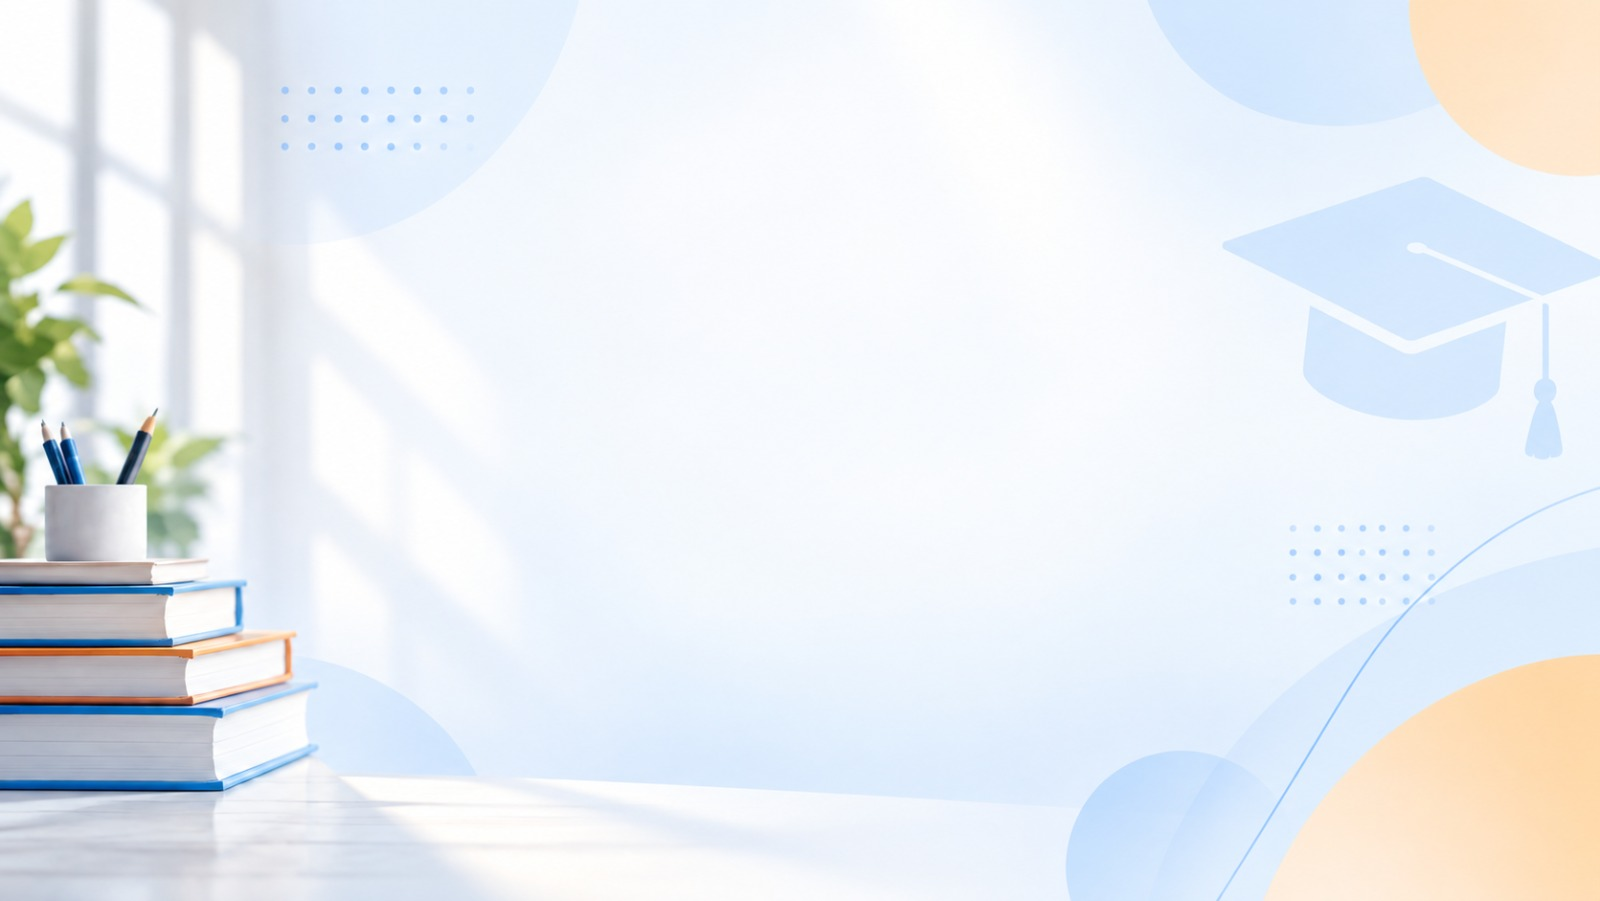
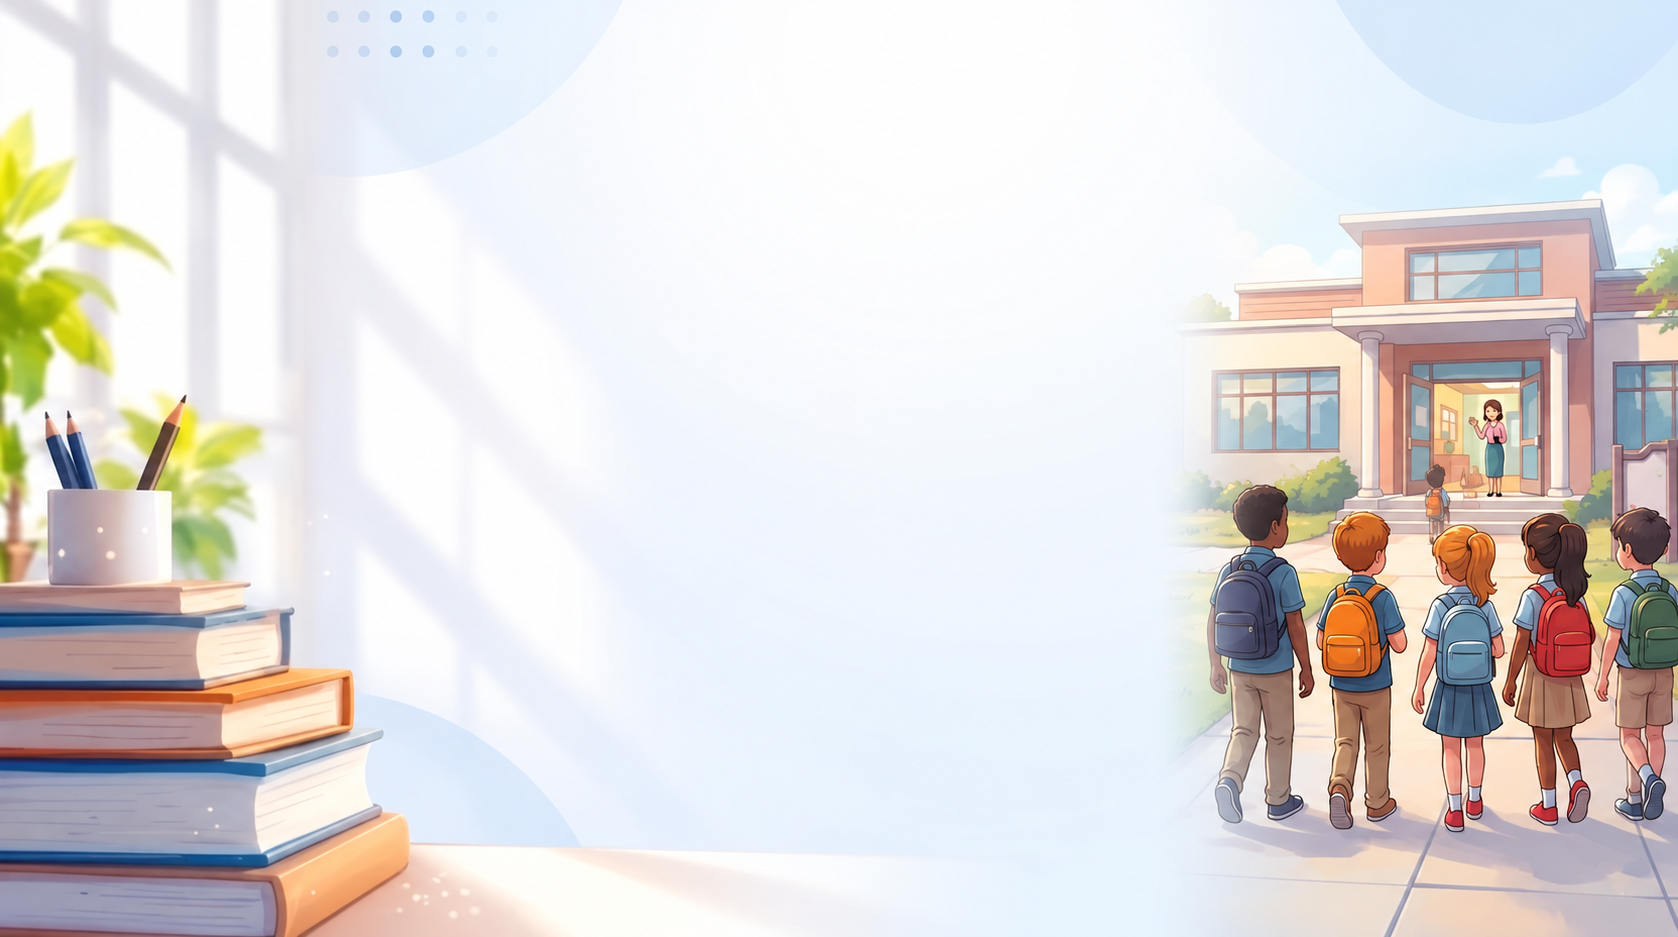
Background image  updated -1

diff --git a/src/Screens/WelcomePage.jsx b/src/Screens/WelcomePage.jsx
@@ -1,5 +1,6 @@
 import React from 'react';
 import { useNavigate } from 'react-router-dom';
+import { Mail, Building2, MapPin } from 'lucide-react';
 
 // Assets
 import smartedzlogo from "../assets/smartedzlogo.png";
@@ -15,7 +16,7 @@ export default function WelcomePage() {
   const navigate = useNavigate();
 
   return (
-    <div className="welcome-bg relative flex min-h-screen flex-col items-center justify-center overflow-x-hidden bg-zinc-50 bg-cover bg-center bg-no-repeat px-6 py-10 sm:px-12">
+    <div className="welcome-bg relative flex min-h-screen flex-col overflow-x-hidden bg-zinc-50 bg-cover bg-center bg-no-repeat">
       {/* Animations + responsive background */}
       <style>{`
         @keyframes fadeInUp {
@@ -26,6 +27,7 @@ export default function WelcomePage() {
         .animate-fade-in-up-delay-1 { animation: fadeInUp 0.6s ease-out 0.15s forwards; }
         .animate-fade-in-up-delay-2 { animation: fadeInUp 0.6s ease-out 0.3s forwards; }
         .animate-fade-in-up-delay-3 { animation: fadeInUp 0.6s ease-out 0.45s forwards; }
+        .animate-fade-in-up-delay-4 { animation: fadeInUp 0.6s ease-out 0.6s forwards; }
 
         /* Default (web / wide) background */
         .welcome-bg { background-image: url('/Background_Web.png'); }
@@ -40,57 +42,80 @@ export default function WelcomePage() {
           while still letting the background show through. */}
       <div className="pointer-events-none absolute inset-0 bg-gradient-to-b from-white/50 via-white/25 to-white/50" />
 
-      {/* Centered hero content */}
-      <div className="relative z-10 mx-auto flex w-full max-w-xl flex-col items-center text-center">
+      {/* Centered hero content (fills the space above the footer) */}
+      <div className="relative z-10 flex flex-1 items-center justify-center px-6 py-10 sm:px-12">
+        <div className="mx-auto flex w-full max-w-xl flex-col items-center text-center">
 
-        {/* Logo Section - UNTOUCHED */}
-        <div className="mb-6 flex items-center gap-3 animate-fade-in-up opacity-0">
-          <img
-            src={smartedzlogo || "/placeholder.svg"}
-            alt="SmartEdz Logo"
-            className="h-16 w-auto xs:h-20 sm:h-24 object-contain drop-shadow-sm"
-          />
-          <div className="text-4xl sm:text-5xl font-bold tracking-tight">
-            <span className="text-[#3284c7]">Smart</span>
-            <span className="text-[#f29132]">Edz</span>
+          {/* Logo Section - UNTOUCHED */}
+          <div className="mb-6 flex items-center gap-3 animate-fade-in-up opacity-0">
+            <img
+              src={smartedzlogo || "/placeholder.svg"}
+              alt="SmartEdz Logo"
+              className="h-16 w-auto xs:h-20 sm:h-24 object-contain drop-shadow-sm"
+            />
+            <div className="text-4xl sm:text-5xl font-bold tracking-tight">
+              <span className="text-[#3284c7]">Smart</span>
+              <span className="text-[#f29132]">Edz</span>
+            </div>
           </div>
-        </div>
 
-        {/* Text Content */}
-        <div className="space-y-4 sm:space-y-6">
-          <h1 className="text-3xl sm:text-4xl font-semibold tracking-tight text-zinc-900 animate-fade-in-up-delay-1 opacity-0 leading-tight">
-            Complete Educational ERP Solution for Schools, Colleges &amp; Educational Institutions
-          </h1>
+          {/* Text Content */}
+          <div className="space-y-4 sm:space-y-6">
+            <h1 className="text-3xl sm:text-4xl font-semibold tracking-tight text-zinc-900 animate-fade-in-up-delay-1 opacity-0 leading-tight">
+              Complete Educational ERP Solution for Schools, Colleges &amp; Educational Institutions
+            </h1>
 
-          <p className="mx-auto max-w-md text-base sm:text-lg font-medium text-zinc-600 animate-fade-in-up-delay-2 opacity-0 leading-relaxed">
-            A unified Educational ERP platform to manage students, academics, administration, fees, transport, communication, and your entire institution seamlessly.
-          </p>
+            <p className="mx-auto max-w-md text-base sm:text-lg font-medium text-zinc-600 animate-fade-in-up-delay-2 opacity-0 leading-relaxed">
+              A unified Educational ERP platform to manage students, academics, administration, fees, transport, communication, and your entire institution seamlessly.
+            </p>
 
-          {/* CTA Button */}
-          <div className="pt-4 sm:pt-6 flex justify-center animate-fade-in-up-delay-3 opacity-0">
-            <button
-              type="button"
-              onClick={() => navigate('/login')}
-              aria-label="Proceed to the application"
-              className="group relative inline-flex items-center justify-center rounded-md bg-primary px-8 py-3.5 text-base font-semibold text-white shadow-md transition-all duration-200 hover:bg-primary/90 hover:shadow-lg hover:-translate-y-0.5 focus:outline-none focus:ring-2 focus:ring-primary/50 focus:ring-offset-2"
-            >
-              <span>Get Started</span>
-              <svg
-                xmlns="http://www.w3.org/2000/svg"
-                viewBox="0 0 20 20"
-                fill="currentColor"
-                className="ml-2 size-5 transition-transform duration-200 group-hover:translate-x-1"
+            {/* CTA Button */}
+            <div className="pt-4 sm:pt-6 flex justify-center animate-fade-in-up-delay-3 opacity-0">
+              <button
+                type="button"
+                onClick={() => navigate('/login')}
+                aria-label="Proceed to the application"
+                className="group relative inline-flex items-center justify-center rounded-md bg-primary px-8 py-3.5 text-base font-semibold text-white shadow-md transition-all duration-200 hover:bg-primary/90 hover:shadow-lg hover:-translate-y-0.5 focus:outline-none focus:ring-2 focus:ring-primary/50 focus:ring-offset-2"
               >
-                <path
-                  fillRule="evenodd"
-                  d="M3 10a.75.75 0 01.75-.75h10.638L10.23 5.29a.75.75 0 111.04-1.08l5.5 5.25a.75.75 0 010 1.08l-5.5 5.25a.75.75 0 11-1.04-1.08l4.158-3.96H3.75A.75.75 0 013 10z"
-                  clipRule="evenodd"
-                />
-              </svg>
-            </button>
+                <span>Get Started</span>
+                <svg
+                  xmlns="http://www.w3.org/2000/svg"
+                  viewBox="0 0 20 20"
+                  fill="currentColor"
+                  className="ml-2 size-5 transition-transform duration-200 group-hover:translate-x-1"
+                >
+                  <path
+                    fillRule="evenodd"
+                    d="M3 10a.75.75 0 01.75-.75h10.638L10.23 5.29a.75.75 0 111.04-1.08l5.5 5.25a.75.75 0 010 1.08l-5.5 5.25a.75.75 0 11-1.04-1.08l4.158-3.96H3.75A.75.75 0 013 10z"
+                    clipRule="evenodd"
+                  />
+                </svg>
+              </button>
+            </div>
           </div>
         </div>
       </div>
+
+      {/* Contact footer */}
+      <footer className="relative z-10 flex flex-wrap items-center justify-center gap-x-6 gap-y-2 px-6 pb-6 pt-2 text-sm font-medium text-zinc-500 animate-fade-in-up-delay-4 opacity-0">
+        <a
+          href="mailto:smartedzhyd@gmail.com"
+          className="inline-flex items-center gap-1.5 transition-colors hover:text-primary"
+        >
+          <Mail className="size-4 shrink-0 text-primary fw-bold" />
+          smartedzhyd@gmail.com
+        </a>
+        <span className="hidden text-zinc-300 sm:inline">•</span>
+        <span className="inline-flex items-center gap-1.5">
+          <Building2 className="size-4 shrink-0 text-primary fw-bold" />
+          SmartEdz LLP
+        </span>
+        <span className="hidden text-zinc-300 sm:inline">•</span>
+        <span className="inline-flex items-center gap-1.5">
+          <MapPin className="size-4 shrink-0 text-primary fw-bold" />
+          Hyderabad, India
+        </span>
+      </footer>
     </div>
   );
 }
